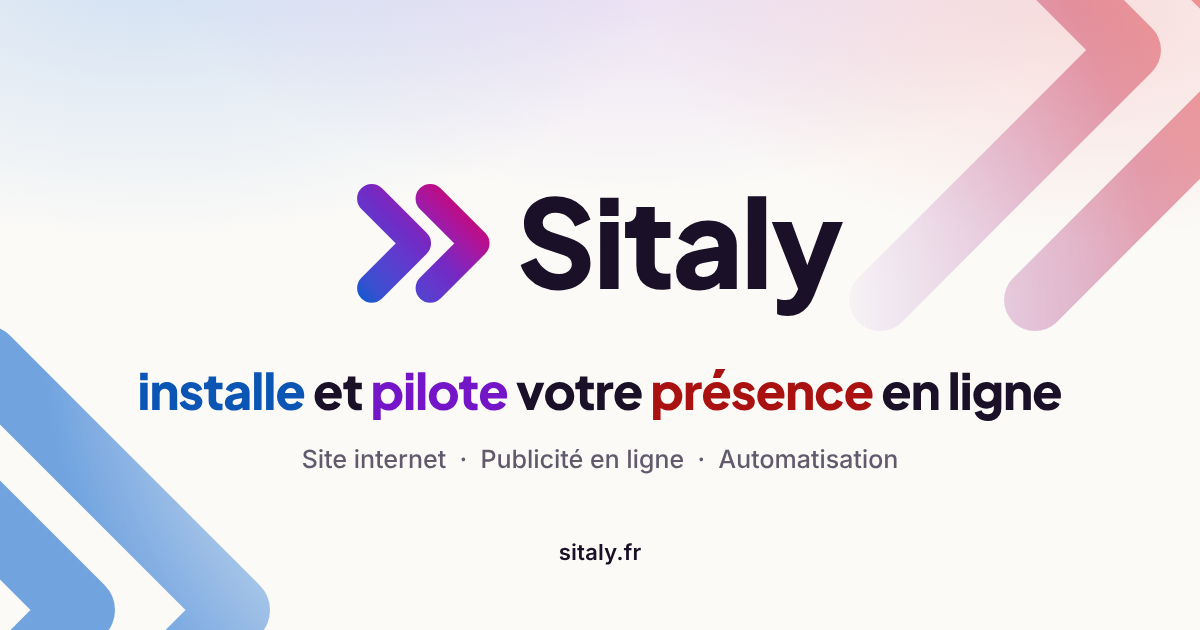
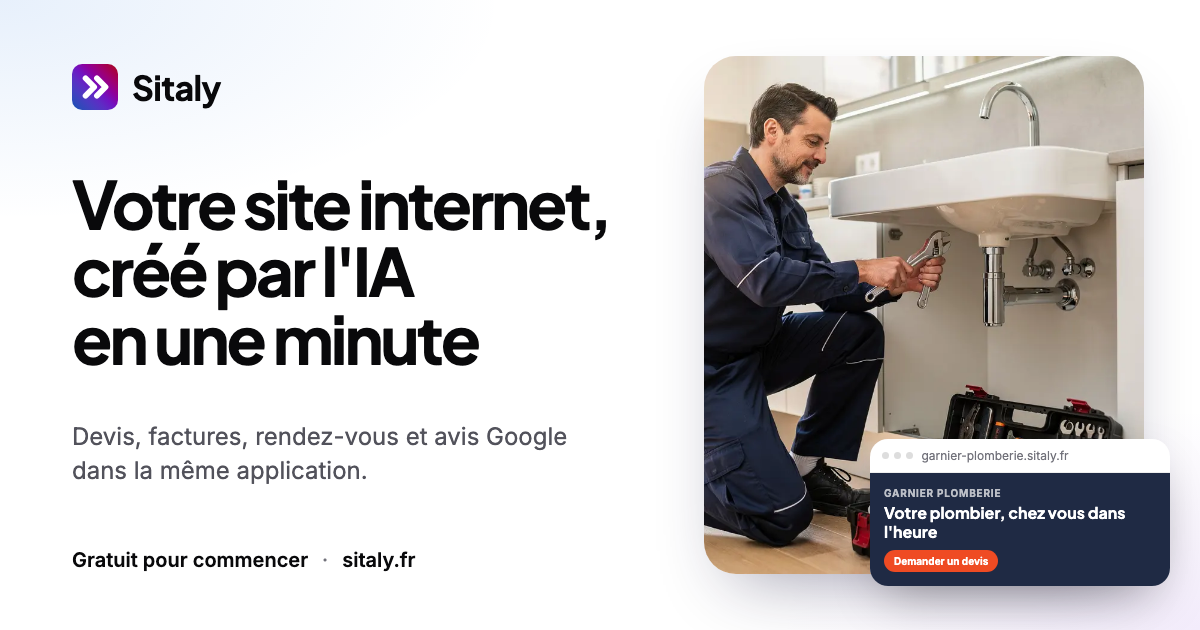
sitaly.fr : nouvelle image de partage
L'ancienne og-image portait le slogan d'agence (« installe et pilote votre
présence en ligne », publicité, automatisation). La nouvelle reprend le titre
de l'accueil et la page modèle plombier. Source dans scripts/og-image.html,
rendu par scripts/og-image.mjs ; generate-brand.py ne l'écrase plus.

diff --git a/scripts/og-image.html b/scripts/og-image.html
@@ -1,0 +1,34 @@
+<!doctype html>
+<!-- Image de partage de sitaly.fr (og-image.png, 1200x630), refaite le 14 novembre 2026 :
+     l'ancienne, tirée de scripts/generate-brand.py, portait le slogan d'agence.
+     Rendu : ouvrir ce fichier dans Chromium à 1200x630 et faire une capture, ou
+     node scripts/og-image.mjs -->
+<html><head><meta charset="utf-8"><style>
+@font-face{font-family:"PJS";src:url("../public/fonts/plus-jakarta-sans-latin.woff2") format("woff2");font-weight:200 800}
+@font-face{font-family:"Inter";src:url("../public/fonts/inter-latin.woff2") format("woff2");font-weight:100 900}
+*{margin:0;box-sizing:border-box}
+body{width:1200px;height:630px;background:#fff;font-family:Inter;color:#09090b;position:relative;overflow:hidden}
+.g{position:absolute;inset:0;background:radial-gradient(60% 50% at 0% 0%,rgba(21,108,221,.10),transparent 70%),radial-gradient(50% 50% at 100% 100%,rgba(136,67,219,.10),transparent 70%)}
+.l{position:absolute;left:72px;top:64px;display:flex;align-items:center;gap:14px;font-family:PJS;font-weight:700;font-size:34px;letter-spacing:-.02em}
+.l img{width:46px;height:46px}
+h1{position:absolute;left:72px;top:170px;width:600px;font-family:PJS;font-weight:700;font-size:66px;line-height:1.02;letter-spacing:-.045em}
+p{position:absolute;left:72px;top:420px;width:540px;font-size:24px;line-height:1.4;color:#52525b}
+.f{position:absolute;left:72px;bottom:58px;font-size:20px;font-weight:600;color:#09090b;display:flex;gap:14px;align-items:center}
+.f span{color:#71717a;font-weight:500}
+.ph{position:absolute;right:56px;top:56px;width:440px;height:518px;border-radius:32px;overflow:hidden;box-shadow:0 30px 70px -30px rgba(25,20,60,.45)}
+.ph img{width:100%;height:100%;object-fit:cover}
+.m{position:absolute;right:30px;bottom:44px;width:300px;background:#fff;border-radius:18px;box-shadow:0 20px 50px -15px rgba(0,0,0,.35);overflow:hidden;font-size:12px}
+.m .b{display:flex;gap:5px;align-items:center;padding:9px 12px;color:#71717a;border-bottom:1px solid #eee}
+.m .b i{width:7px;height:7px;border-radius:9px;background:#ddd;display:block}
+.m .h{background:#1f2a44;color:#fff;padding:14px}
+.m .h b{display:block;font-size:10px;letter-spacing:.08em;opacity:.7;margin-bottom:4px}
+.m .h div{font-family:PJS;font-weight:700;font-size:16px;line-height:1.2}
+.m .h em{display:inline-block;margin-top:9px;background:#ef4b23;color:#fff;font-style:normal;font-weight:700;font-size:10px;padding:5px 10px;border-radius:99px}
+</style></head><body><div class="g"></div>
+<div class="l"><img src="../public/favicon.svg">Sitaly</div>
+<h1>Votre site internet,<br>créé par l'IA<br>en une minute</h1>
+<p>Devis, factures, rendez-vous et avis Google dans la même application.</p>
+<div class="f">Gratuit pour commencer <span>·</span> sitaly.fr</div>
+<div class="ph"><img src="../public/vitrine/metiers/plombier-1536.webp"></div>
+<div class="m"><div class="b"><i></i><i></i><i></i>&nbsp;garnier-plomberie.sitaly.fr</div><div class="h"><b>GARNIER PLOMBERIE</b><div>Votre plombier, chez vous dans l'heure</div><em>Demander un devis</em></div></div>
+</body></html>

diff --git a/scripts/generate-brand.py b/scripts/generate-brand.py
@@ -251,7 +251,9 @@ def png(name_svg, name_png, w, h):
     return render(files[name_svg], os.path.join(OUT, name_png), w, h)
 
 os.makedirs(f"{OUT}/brand/png", exist_ok=True)
-png("og-image.svg", "og-image.png", 1200, 630)
+# og-image.png ne vient plus d'ici depuis le 14/11/2026 : son slogan d'agence
+# a été remplacé, voir scripts/og-image.html et scripts/og-image.mjs.
+# png("og-image.svg", "og-image.png", 1200, 630)
 Image.open(png("og-agents-ia.svg", "og-agents-ia.png", 1200, 630)).convert("RGB").save(f"{OUT}/og-agents-ia.jpg", quality=90)
 os.remove(f"{OUT}/og-agents-ia.png")
 png("tmp-apple.svg", "apple-touch-icon.png", 180, 180)
